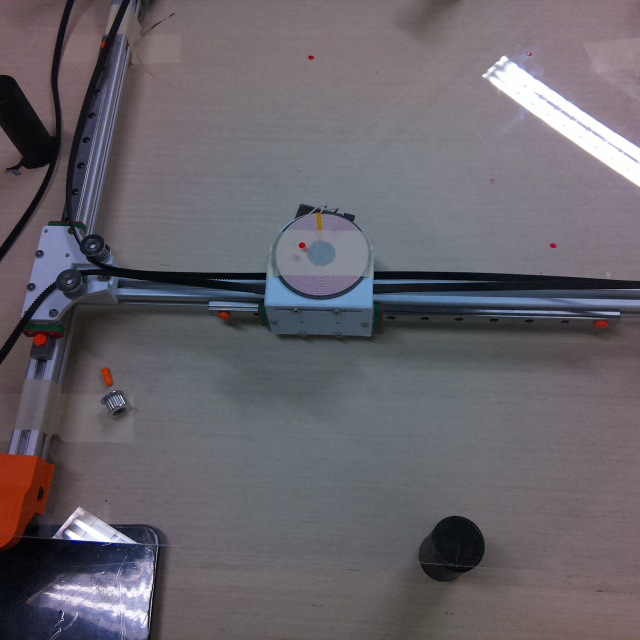
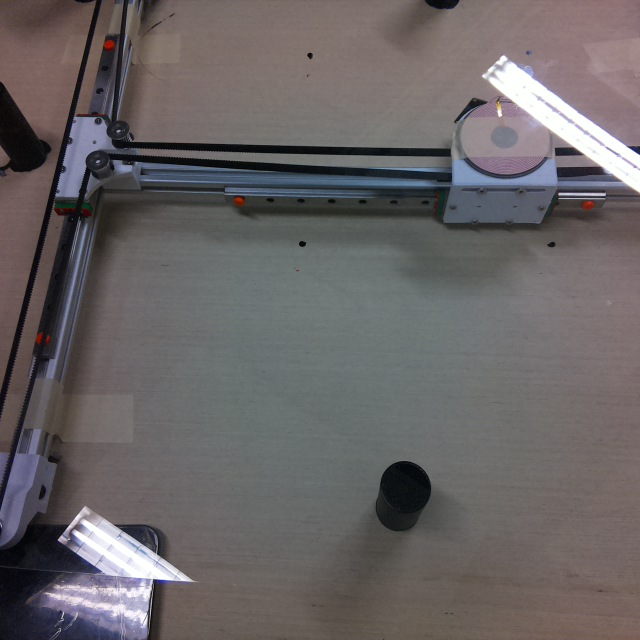
temp

diff --git a/remap.py b/remap.py
@@ -6,10 +6,10 @@ def remap_coor(x,y):
     # Define the four corners in the image
     # from the image perspective
     image_points = np.array([
-        [529.,  60.], # top right (origin)
-        [549., 251.], # bottom right
-        [300., 249.], # bottom left
-        [311.,  61.], # top left
+        [531.,  54.],# top right (origin)
+        [552., 247.], # bottom right
+        [303., 245.], # bottom left
+        [312.,  58.], # top left
     ], dtype=np.float32)
 
     # Define the real-world coordinates of the four corners

diff --git a/app.py b/app.py
@@ -81,7 +81,7 @@ try:
                 print("Can't open serial port.")
        
 
-        time.sleep(1)
+        time.sleep(0.5)
         # cnt += 1
 except KeyboardInterrupt:
     # Reset to origin
